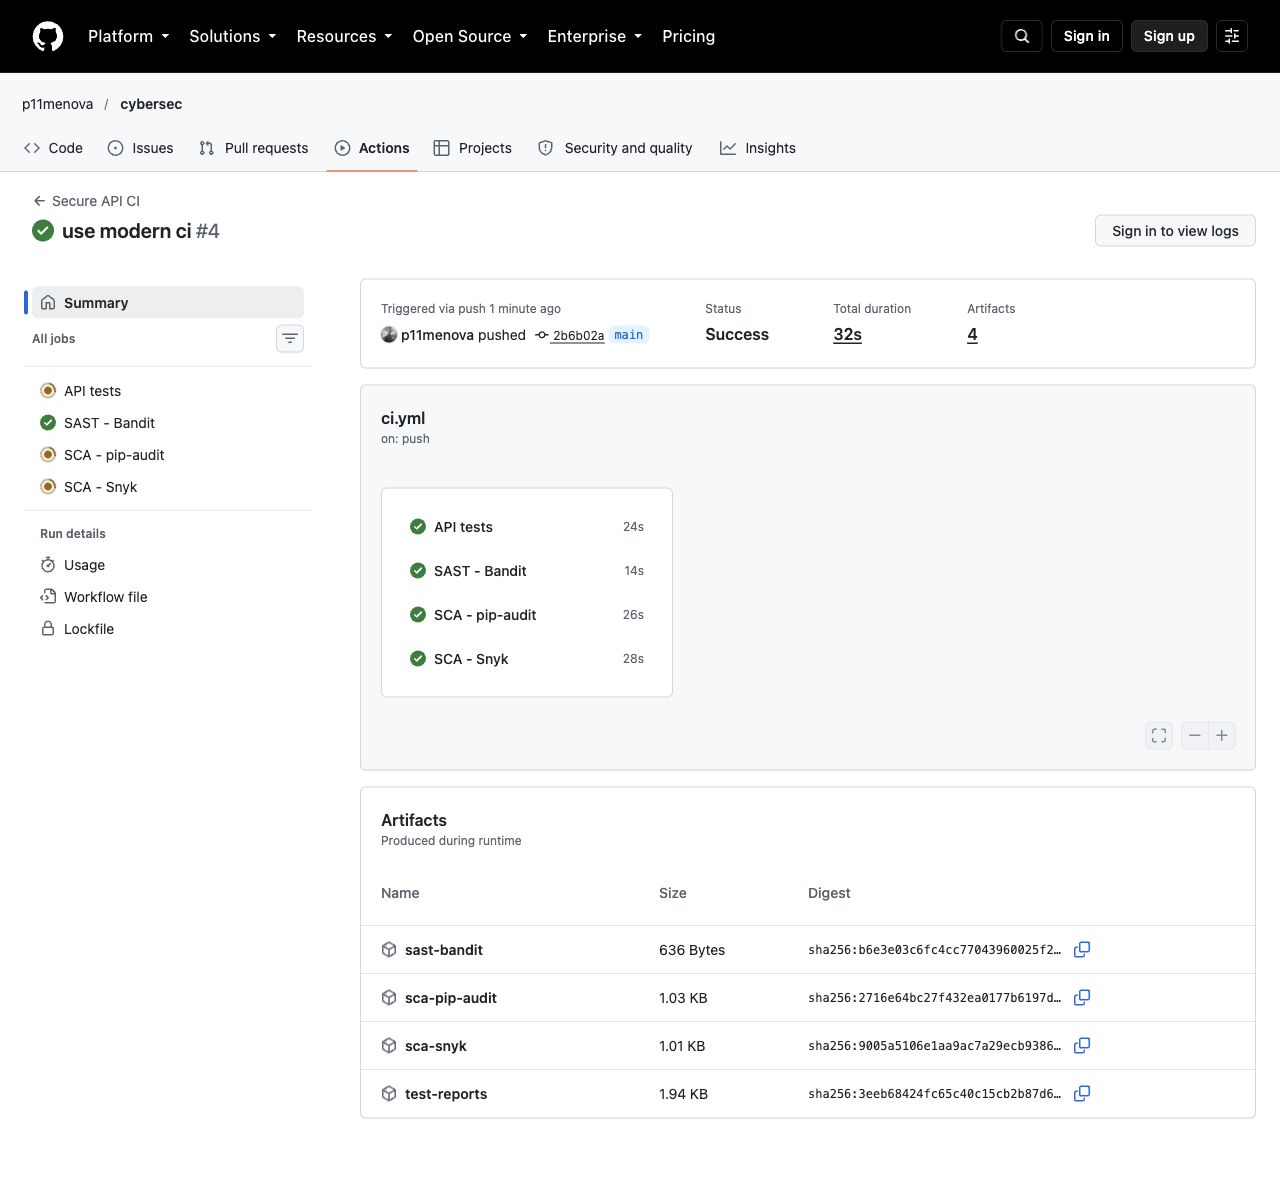
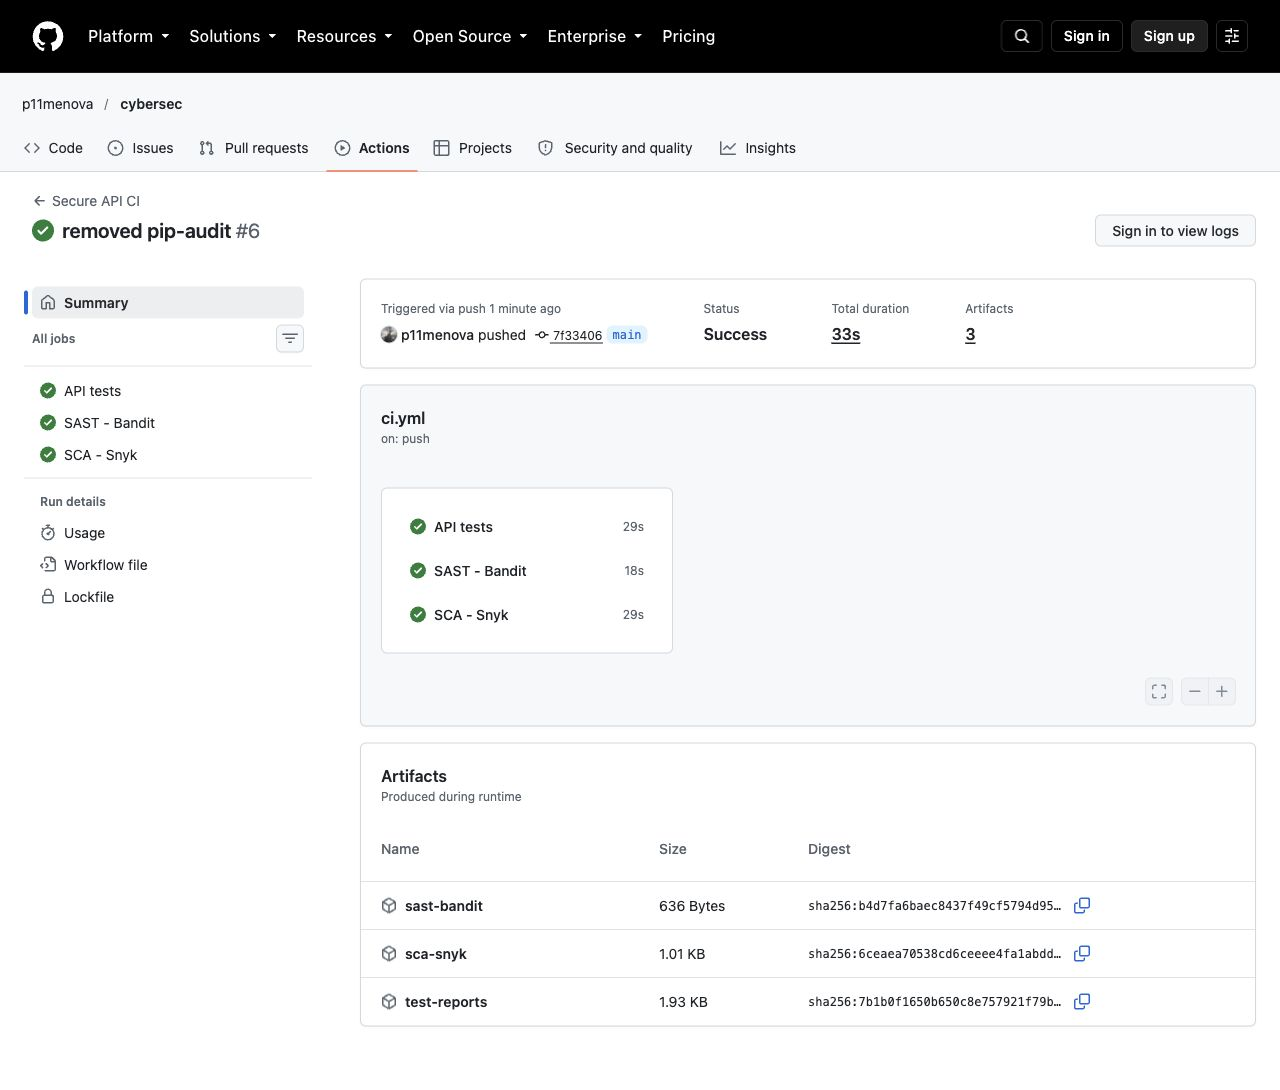
removed pip-audit

diff --git a/scripts/scan_summary.py b/scripts/scan_summary.py
@@ -14,11 +14,6 @@ data = json.loads(path.read_text())
 if kind == "bandit":
     print(f"Findings: **{len(data['results'])}**. Scanner errors: **{len(data['errors'])}**.")
     print(f"\nLines scanned: {data['metrics']['_totals']['loc']}.")
-elif kind == "pip-audit":
-    deps = data["dependencies"]
-    count = sum(len(dep.get("vulns", [])) for dep in deps)
-    skipped = sum("skip_reason" in dep for dep in deps)
-    print(f"Dependencies: **{len(deps)}**. Vulnerabilities: **{count}**. Skipped: **{skipped}**.")
 elif kind == "snyk":
     if "error" in data:
         print("Scan error; see the Snyk step log. No successful result is available.")

diff --git a/docs/evidence.md b/docs/evidence.md
@@ -6,33 +6,25 @@
 - pytest: 61 тест прошёл, покрытие приложения 97%.
 - Gunicorn + curl: smoke test прошёл (`401 → 401 → 200 → 201 → 200`).
 - Bandit: 0 находок, 0 ошибок сканера.
-- pip-audit runtime-зависимостей: известных уязвимостей не найдено.
-- Полный pip-audit runtime + dev: проверены 53 зависимости, 0 известных уязвимостей, 0 пропусков.
 - Snyk локально не запускался; результат проверки в GitHub Actions приведён ниже.
 
 Полные локальные отчёты сохраняются в `reports/` и исключены из Git.
 
 ## GitHub Actions
 
-[Успешный запуск № 4](https://github.com/p11menova/cybersec/actions/runs/39154442892), 18 октября 2026.
+[Успешный запуск № 6](https://github.com/p11menova/cybersec/actions/runs/39157669514), 18 октября 2026.
 
 - **API tests** — успешно, включая HTTP smoke test.
 - **SAST — Bandit** — успешно.
-- **SCA — pip-audit** — успешно.
 - **SCA — Snyk** — успешно; блокирующих уязвимостей High/Critical не обнаружено.
 
-Общий статус — **Success**. Все четыре задания завершились успешно; длительность запуска — 32 секунды.
-Дальнейшие запуски доступны на [странице workflow](https://github.com/p11menova/cybersec/actions/workflows/ci.yml).
+Общий статус — **Success**. Все три задания завершились успешно; длительность запуска — 33 секунды.
 
-Настоящий скриншот страницы GitHub Actions, сохранённый 18.10.2026:
+Настоящий скриншот страницы GitHub Actions:
 
-![GitHub Actions: тесты, Bandit, pip-audit и Snyk прошли](screenshots/actions-summary.jpg)
+![GitHub Actions: тесты, Bandit и Snyk прошли](screenshots/actions-summary.jpg)
 
-Скриншот подтверждает статусы заданий и наличие Artifacts. Для просмотра подробных логов и
-скачивания отчётов GitHub в используемом браузере требует вход в аккаунт.
+[Запуски workflow](https://github.com/p11menova/cybersec/actions/workflows/ci.yml).
 
-Артефакты запуска: `sast-bandit`, `sca-pip-audit`, `sca-snyk`, `test-reports`.
-Они содержат полные отчёты сканеров и результаты тестов. Скриншот также вставлен в README.
-
-Не включать в скриншоты токены, значения секретов и пользовательские пароли.
-Незавершённый/пропущенный скан не является доказательством отсутствия уязвимостей.
+Артефакты: `sast-bandit`, `sca-snyk`, `test-reports`.
+Они содержат полные отчёты сканеров и результаты тестов.

diff --git a/README.md b/README.md
@@ -198,11 +198,10 @@ Workflow запускается на каждый `push`, `pull_request` и вр
 
 1. **API tests** — pytest, security regression tests, порог покрытия 90%, реальный HTTP smoke test через Gunicorn и curl.
 2. **SAST — Bandit** — проверка `secure_api/` и `wsgi.py` на все уровни серьёзности. Любая находка завершает job с ошибкой.
-3. **SCA — pip-audit** — проверка runtime- и dev-зависимостей по базе PyPI; любая известная уязвимость завершает job с ошибкой.
-4. **SCA — Snyk** — инструмент из задания; блокирует High и Critical, сохраняет JSON-отчёт.
+3. **SCA — Snyk** — инструмент из задания; блокирует High и Critical, сохраняет JSON-отчёт.
 
 JSON-отчёты и результаты тестов сохраняются в **Artifacts** на 30 дней, в том числе при ошибке сканирования.
-Bandit, pip-audit и Snyk выводят краткий результат в **Job summary**, удобный для скриншота.
+Bandit и Snyk выводят краткий результат в **Job summary**, удобный для скриншота.
 Ошибки доступа к сервисам не считаются отсутствием уязвимостей.
 
 ### Настройка Snyk (однократно)
@@ -224,9 +223,7 @@ mkdir -p reports
 python -m pytest --cov=secure_api --cov-fail-under=90 --cov-report=term-missing --junitxml=reports/pytest.xml
 python scripts/http_smoke.py
 python -m bandit -r secure_api wsgi.py -f json -o reports/bandit.json
-python -m pip_audit -r requirements-dev.txt --format json --output reports/pip-audit.json
 python scripts/scan_summary.py bandit reports/bandit.json
-python scripts/scan_summary.py pip-audit reports/pip-audit.json
 ```
 
 Smoke test сам создаёт временную базу, случайные учётные данные и секрет, запускает Gunicorn
@@ -247,8 +244,8 @@ Smoke test сам создаёт временную базу, случайные
 - Описание API и защиты: этот `README.md`.
 - Последний успешный запуск и скриншоты отчётов: [docs/evidence.md](docs/evidence.md).
 
-Подтверждённый успешный результат: [запуск № 4](https://github.com/p11menova/cybersec/actions/runs/39154442892) —
-все четыре задания прошли: тесты API, Bandit, pip-audit и Snyk. Отчёты доступны в Artifacts этого запуска.
+Подтверждённый успешный результат: [запуск № 6](https://github.com/p11menova/cybersec/actions/runs/39157669514) —
+все три задания прошли: тесты API, Bandit и Snyk. Отчёты доступны в Artifacts этого запуска.
 
 ![GitHub Actions: результаты проверок](docs/screenshots/actions-summary.jpg)
 
